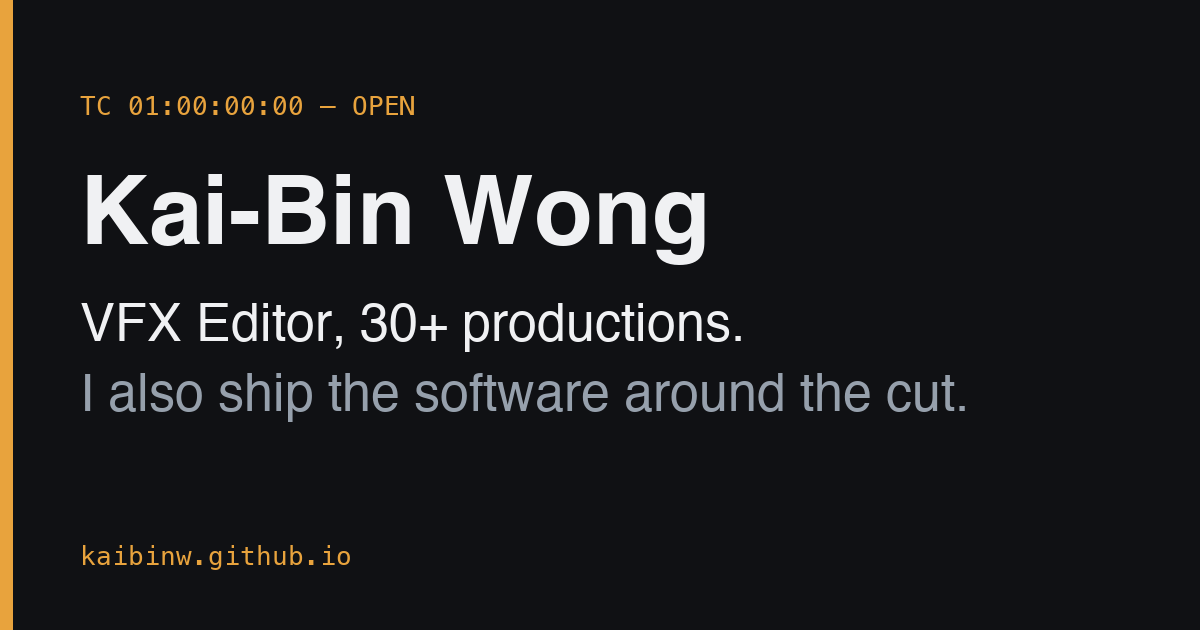
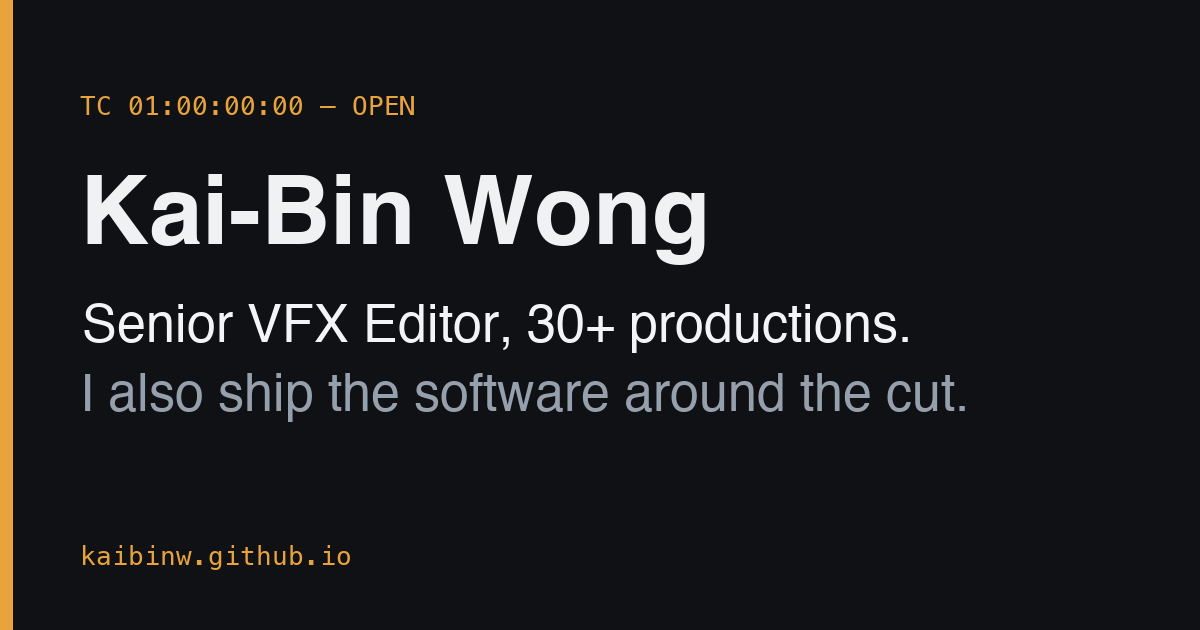
feat: Senior VFX Editor hero, restore the seven-tools claim, add Ledger app screens
- Hero, sidebar, titles, meta and og.png say "Senior VFX Editor"; Rising Sun Pictures removed everywhere.
- Method section: restore "seven tools, ~18,000 lines" (May to June 2026), sourced from the vault's agentic-engineering case study; studio work stays method-only.
- Ledger case study: add the demo-household iPhone (4) and iPad (3) screens from the iOS app. Status bar, dev badge and loading spinner cropped out; iPhone 800px and iPad 1400px wide, WebP q80 with JPG fallback via <picture>, width/height set, lazy loaded, alt text on each.
- Captions explain why Overview ($2,620 flexible pots), Budget ($6,370, all nine categories) and Transactions ($7,740, every payment) show different totals.

Changed region(s): [[0.0617, 0.4825, 0.7708, 0.5429]]

diff --git a/case-studies/ledger.html b/case-studies/ledger.html
@@ -33,7 +33,7 @@
 
     <div class="sidebar-about">
       <p class="sidebar-name"><a href="../index.html">Kai-Bin Wong</a></p>
-      <p class="lead"><strong>VFX Editor</strong> in Brisbane, Australia. 30+ Hollywood credits — and I build the tools the cut runs on.</p>
+      <p class="lead"><strong>Senior VFX Editor</strong> in Brisbane, Australia. 30+ Hollywood credits — and I build the tools the cut runs on.</p>
     </div>
 
     <div class="sidebar-meta">
@@ -130,6 +130,62 @@
 
     <h2>Design is part of the stack</h2>
     <p>Visually heavy pages were mocked up in Claude Design, then handed to the coding session as the spec.</p>
+
+    <h2 id="screens">The app on iPhone and iPad</h2>
+    <p>Screens from the iOS app, running the seeded demo household (Alex and Sam). Merchants are real Australian brands; the people and amounts are invented. The totals differ by screen on purpose: Overview tracks the six flexible pots, Budget lists every category including bills, and Transactions totals every payment.</p>
+    <div class="app-shots">
+      <figure class="app-shot phone-shot">
+      <picture>
+        <source srcset="../assets/ledger/ledger-iphone-overview.webp" type="image/webp">
+        <img src="../assets/ledger/ledger-iphone-overview.jpg" width="800" height="1420" loading="lazy" decoding="async" alt="Ledger overview on iPhone for October 2026: Travel is over budget, with ease-back suggestions from Groceries, Transport &amp; Fuel and Kids &amp; Pets, above the category cards (demo data)">
+      </picture>
+      <figcaption><b>Overview.</b> Six flexible pots, $2,620 budgeted. Travel is deliberately over budget in this demo so the ease-back suggestions show.</figcaption>
+    </figure>
+      <figure class="app-shot phone-shot">
+      <picture>
+        <source srcset="../assets/ledger/ledger-iphone-transactions.webp" type="image/webp">
+        <img src="../assets/ledger/ledger-iphone-transactions.jpg" width="800" height="1420" loading="lazy" decoding="async" alt="Ledger transactions list on iPhone for October 2026, grouped by day, each row showing who paid and which card (demo data)">
+      </picture>
+      <figcaption><b>Transactions.</b> Grouped by day, with who paid and which card.</figcaption>
+    </figure>
+      <figure class="app-shot phone-shot">
+      <picture>
+        <source srcset="../assets/ledger/ledger-iphone-bills.webp" type="image/webp">
+        <img src="../assets/ledger/ledger-iphone-bills.jpg" width="800" height="1420" loading="lazy" decoding="async" alt="Ledger bills screen on iPhone: 16 of 21 bills paid this month, listed by due date with the card each is paid from (demo data)">
+      </picture>
+      <figcaption><b>Bills.</b> 16 of 21 bills paid, listed by due date.</figcaption>
+    </figure>
+      <figure class="app-shot phone-shot">
+      <picture>
+        <source srcset="../assets/ledger/ledger-iphone-budget.webp" type="image/webp">
+        <img src="../assets/ledger/ledger-iphone-budget.jpg" width="800" height="1420" loading="lazy" decoding="async" alt="Ledger budget screen on iPhone: $6,370 allocated across October categories, with Groceries set to Ease back and Dining Out Protected (demo data)">
+      </picture>
+      <figcaption><b>Budget.</b> All nine categories, $6,370 allocated, bills included. Each pot is Ease back, Protected or Off.</figcaption>
+    </figure>
+    </div>
+    <div class="app-shots tablet-shots">
+      <figure class="app-shot tablet-shot">
+      <picture>
+        <source srcset="../assets/ledger/ledger-ipad-overview.webp" type="image/webp">
+        <img src="../assets/ledger/ledger-ipad-overview.jpg" width="1400" height="1737" loading="lazy" decoding="async" alt="Ledger overview on iPad: month total, per-person spend, category pie chart, recent transactions and ease-back suggestions (demo data)">
+      </picture>
+      <figcaption><b>Overview.</b> On iPad the overview adds the per-person split and recent transactions.</figcaption>
+    </figure>
+      <figure class="app-shot tablet-shot">
+      <picture>
+        <source srcset="../assets/ledger/ledger-ipad-transactions.webp" type="image/webp">
+        <img src="../assets/ledger/ledger-ipad-transactions.jpg" width="1400" height="1737" loading="lazy" decoding="async" alt="Ledger transactions on iPad: the full month of payments beside a category breakdown and per-person totals (demo data)">
+      </picture>
+      <figcaption><b>Transactions.</b> Every payment for the month, bills included: $7,740, against $4,340.72 on Overview, which counts only the six flexible pots.</figcaption>
+    </figure>
+      <figure class="app-shot tablet-shot">
+      <picture>
+        <source srcset="../assets/ledger/ledger-ipad-budget.webp" type="image/webp">
+        <img src="../assets/ledger/ledger-ipad-budget.jpg" width="1400" height="1737" loading="lazy" decoding="async" alt="Ledger budget on iPad: the nine categories with their ease-back settings beside the allocation pie chart (demo data)">
+      </picture>
+      <figcaption><b>Budget.</b> The same budget as on iPhone, with the allocation pie beside it.</figcaption>
+    </figure>
+    </div>
 
     <h2>What it looks like, feature by feature</h2>
     <p>Same layout as the app. Merchants, people, and amounts below are invented sample data.</p>

diff --git a/index.html b/index.html
@@ -3,10 +3,10 @@
 <head>
 <meta charset="UTF-8">
 <meta name="viewport" content="width=device-width, initial-scale=1.0">
-<title>Kai-Bin Wong — VFX Editor</title>
-<meta name="description" content="VFX Editor at Rising Sun Pictures, 30+ productions. I also ship the software around the cut.">
-<meta property="og:title" content="Kai-Bin Wong — VFX Editor">
-<meta property="og:description" content="VFX Editor at Rising Sun Pictures, 30+ productions. I also ship the software around the cut.">
+<title>Kai-Bin Wong — Senior VFX Editor</title>
+<meta name="description" content="Senior VFX Editor, 30+ productions. I also ship the software around the cut.">
+<meta property="og:title" content="Kai-Bin Wong — Senior VFX Editor">
+<meta property="og:description" content="Senior VFX Editor, 30+ productions. I also ship the software around the cut.">
 <meta property="og:type" content="website">
 <meta property="og:url" content="https://kaibinw.github.io/">
 <meta property="og:image" content="https://kaibinw.github.io/og.png">
@@ -33,7 +33,7 @@
 
     <div class="sidebar-about">
       <p class="sidebar-name"><a href="#">Kai-Bin Wong</a></p>
-      <p class="lead"><strong>VFX Editor</strong> in Brisbane, Australia. 30+ Hollywood credits — and I build the tools the cut runs on.</p>
+      <p class="lead"><strong>Senior VFX Editor</strong> in Brisbane, Australia. 30+ Hollywood credits — and I build the tools the cut runs on.</p>
     </div>
 
     <div class="sidebar-meta">
@@ -73,7 +73,7 @@
 <section class="hero" aria-label="Introduction">
   <div class="wrap">
     <p class="tc">TC 01:00:00:00 — OPEN</p>
-    <h1>VFX Editor at Rising Sun Pictures, 30+ productions. <em>I also ship the software around the cut.</em></h1>
+    <h1>Senior VFX Editor, 30+ productions. <em>I also ship the software around the cut.</em></h1>
     <div class="hero-cta">
       <a class="btn" href="#contact">Hire a VFX editor who scripts</a>
       <a class="btn btn-ghost" href="#work">See the work</a>
@@ -215,6 +215,7 @@
     <p class="tc">TC 01:08:00:00 — THE METHOD</p>
     <h2 class="section-title" id="method-title">Agentic engineering, measured.</h2>
     <p>I steer while the model builds: I set the constraints, review every change, and decide what ships.</p>
+    <p>Over May and June 2026 I shipped or significantly evolved <strong>seven tools</strong> this way, about <strong>18,000 lines of application code</strong>, in daily use by real people. The case studies below show the ones I can share in full; studio work travels as method only.</p>
     <ul>
       <li><strong>Constraints before code.</strong> Every project starts with the non-negotiables.</li>
       <li><strong>Real users as the bar.</strong> Features come from watching actual use.</li>
@@ -227,7 +228,7 @@
   <div class="wrap">
     <p class="tc">TC 01:11:07:00 — END CRAWL</p>
     <h2 class="section-title" id="credits-title">Production credits.</h2>
-    <p class="credits-note">Thirty-plus productions as VFX Editor at Rising Sun Pictures, plus visual effects and camera credits, verified on <a href="https://www.imdb.com/name/nm7834405/">IMDb</a>.</p>
+    <p class="credits-note">Thirty-plus productions as VFX Editor, plus visual effects and camera credits, verified on <a href="https://www.imdb.com/name/nm7834405/">IMDb</a>.</p>
         <div class="bins">
     <details class="bin" open>
       <summary>2026_dailies<span class="bin-count">10 ITEMS</span><span class="bin-lights" aria-hidden="true"><i></i><i></i><i></i></span></summary>

diff --git a/style.css b/style.css
@@ -1233,3 +1233,11 @@ button.mock-btn, button.mock-chip-btn { cursor: pointer; border: 0; font-family:
   .hobby-marker span { display: none; }
   .hobby-marker { padding-inline: 0.85rem; }
 }
+
+/* real app screenshots (Ledger case study) */
+.app-shots { display: grid; grid-template-columns: repeat(auto-fit, minmax(min(100%, 13rem), 1fr)); gap: 1.25rem; margin: 1.75rem 0; }
+.app-shots.tablet-shots { grid-template-columns: repeat(auto-fit, minmax(min(100%, 26rem), 1fr)); }
+.app-shot { margin: 0; }
+.app-shot img { display: block; width: 100%; height: auto; border: 1px solid var(--line-strong); border-radius: 10px; background: var(--surface); }
+.app-shot figcaption { margin-top: 0.6rem; font-family: var(--font-mono); font-size: 0.72rem; line-height: 1.45; color: var(--muted); }
+.app-shot figcaption b { color: var(--ink); font-weight: 600; }

diff --git a/case-studies/dailies-importer.html b/case-studies/dailies-importer.html
@@ -33,7 +33,7 @@
 
     <div class="sidebar-about">
       <p class="sidebar-name"><a href="../index.html">Kai-Bin Wong</a></p>
-      <p class="lead"><strong>VFX Editor</strong> in Brisbane, Australia. 30+ Hollywood credits — and I build the tools the cut runs on.</p>
+      <p class="lead"><strong>Senior VFX Editor</strong> in Brisbane, Australia. 30+ Hollywood credits — and I build the tools the cut runs on.</p>
     </div>
 
     <div class="sidebar-meta">

diff --git a/case-studies/dashboard.html b/case-studies/dashboard.html
@@ -33,7 +33,7 @@
 
     <div class="sidebar-about">
       <p class="sidebar-name"><a href="../index.html">Kai-Bin Wong</a></p>
-      <p class="lead"><strong>VFX Editor</strong> in Brisbane, Australia. 30+ Hollywood credits — and I build the tools the cut runs on.</p>
+      <p class="lead"><strong>Senior VFX Editor</strong> in Brisbane, Australia. 30+ Hollywood credits — and I build the tools the cut runs on.</p>
     </div>
 
     <div class="sidebar-meta">

diff --git a/case-studies/dental-catalog.html b/case-studies/dental-catalog.html
@@ -33,7 +33,7 @@
 
     <div class="sidebar-about">
       <p class="sidebar-name"><a href="../index.html">Kai-Bin Wong</a></p>
-      <p class="lead"><strong>VFX Editor</strong> in Brisbane, Australia. 30+ Hollywood credits — and I build the tools the cut runs on.</p>
+      <p class="lead"><strong>Senior VFX Editor</strong> in Brisbane, Australia. 30+ Hollywood credits — and I build the tools the cut runs on.</p>
     </div>
 
     <div class="sidebar-meta">

diff --git a/case-studies/hq.html b/case-studies/hq.html
@@ -33,7 +33,7 @@
 
     <div class="sidebar-about">
       <p class="sidebar-name"><a href="../index.html">Kai-Bin Wong</a></p>
-      <p class="lead"><strong>VFX Editor</strong> in Brisbane, Australia. 30+ Hollywood credits — and I build the tools the cut runs on.</p>
+      <p class="lead"><strong>Senior VFX Editor</strong> in Brisbane, Australia. 30+ Hollywood credits — and I build the tools the cut runs on.</p>
     </div>
 
     <div class="sidebar-meta">

diff --git a/case-studies/second-brain.html b/case-studies/second-brain.html
@@ -33,7 +33,7 @@
 
     <div class="sidebar-about">
       <p class="sidebar-name"><a href="../index.html">Kai-Bin Wong</a></p>
-      <p class="lead"><strong>VFX Editor</strong> in Brisbane, Australia. 30+ Hollywood credits — and I build the tools the cut runs on.</p>
+      <p class="lead"><strong>Senior VFX Editor</strong> in Brisbane, Australia. 30+ Hollywood credits — and I build the tools the cut runs on.</p>
     </div>
 
     <div class="sidebar-meta">
